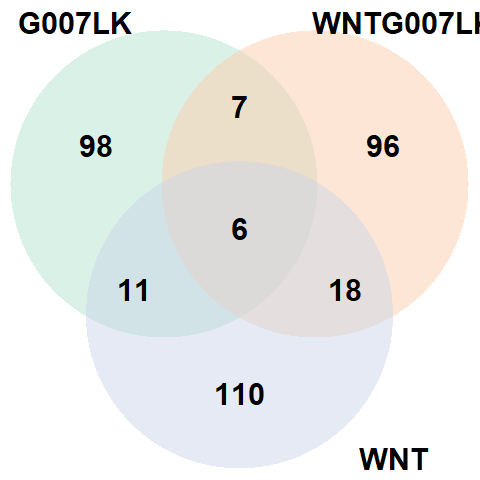
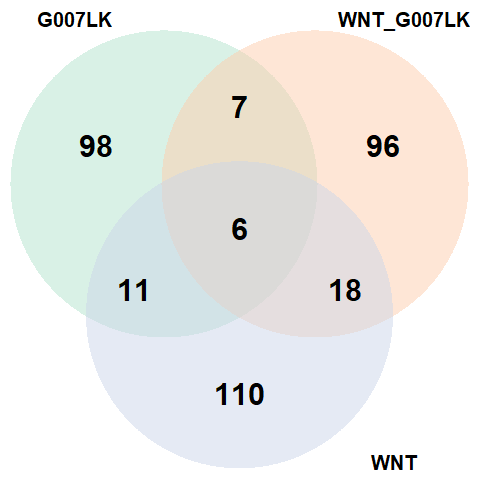
feat: presentation edit and new venn layout

Changed region(s): [[0.6562, 0.0, 1.0, 0.0938], [0.0312, 0.0, 0.2812, 0.0938], [0.75, 0.9062, 0.9062, 1.0]]

diff --git a/doc/presentation.html b/doc/presentation.html
@@ -341,17 +341,12 @@ Group - 24
 <h1>Introduction</h1>
 
 </section>
-<section id="dataset-and" class="slide level2">
-<h2>Dataset and</h2>
+<section id="dataset-and-general-idea" class="slide level2">
+<h2>Dataset and general idea</h2>
 <ul>
 <li>What we wanted to do and why we chose that dataset</li>
-</ul>
-</section>
-<section id="purpose-of-analysis" class="slide level2">
-<h2>Purpose of analysis</h2>
-<ul>
-<li>Idea for analysis</li>
-<li>hi</li>
+<li>What did we intend to analyse in the datasets</li>
+<li>What was our general goal for the project</li>
 </ul>
 </section></section>
 <section>
@@ -362,15 +357,22 @@ Group - 24
 <section id="cleaning" class="slide level2">
 <h2>Cleaning</h2>
 <ul>
-<li>How we cleaned</li>
-<li>We ddi a b and c</li>
+<li>How we cleaned the data and why</li>
+</ul>
+</section>
+<section id="describtion" class="slide level2">
+<h2>Describtion</h2>
+<ul>
+<li>Describing our data</li>
+<li>Describing the challenges of our data (only one observation per cell line. Few observation in mouse also, as there are only 3 replicates)</li>
 </ul>
 </section>
 <section id="augmentation" class="slide level2">
 <h2>Augmentation</h2>
 <ul>
 <li>How we processed or data to prepare it for analysis</li>
-<li>Relative log2 fold expressions</li>
+<li>Why we did 0 handling and how</li>
+<li>Why we did log2 fold expressions</li>
 </ul>
 </section></section>
 <section>
@@ -381,19 +383,19 @@ Group - 24
 <section id="mouse-gene-expression-analysis" class="slide level2">
 <h2>Mouse gene expression analysis</h2>
 <ul>
-<li>significantly up and down regulated genes</li>
-<li>volcano plots</li>
+<li>Only 346 significantly regulated genes out of 39075</li>
+<li>0 handeling making estimated treatment impact on expressions unsure.</li>
 </ul>
 <p><img src="../results/volcano_G007LK.png" style="width: 48%;"> <img src="../results/signif_genes_G007LK.png" style="width: 48%;"></p>
 </section>
 <section id="overlaps-in-regulated-genes-between-treatments" class="slide level2">
 <h2>Overlaps in regulated genes between treatments</h2>
 <ul>
-<li><p>Significantly regulated genes in each treatment</p></li>
-<li><p>The venn diagram shows that there are quite a small overlap</p></li>
+<li>Approximately euqal amounts of significantly regulated genes in each treatment</li>
+<li>However, the overlap is very small</li>
 </ul>
 
-<img data-src="../results/mouse_venn_diagram.png" class="r-stretch"></section></section>
+<img src="../results/mouse_venn_diagram.png" style="width: 100%;" class="r-stretch"></section></section>
 <section>
 <section id="discussion" class="title-slide slide level1 center">
 <h1>Discussion</h1>
